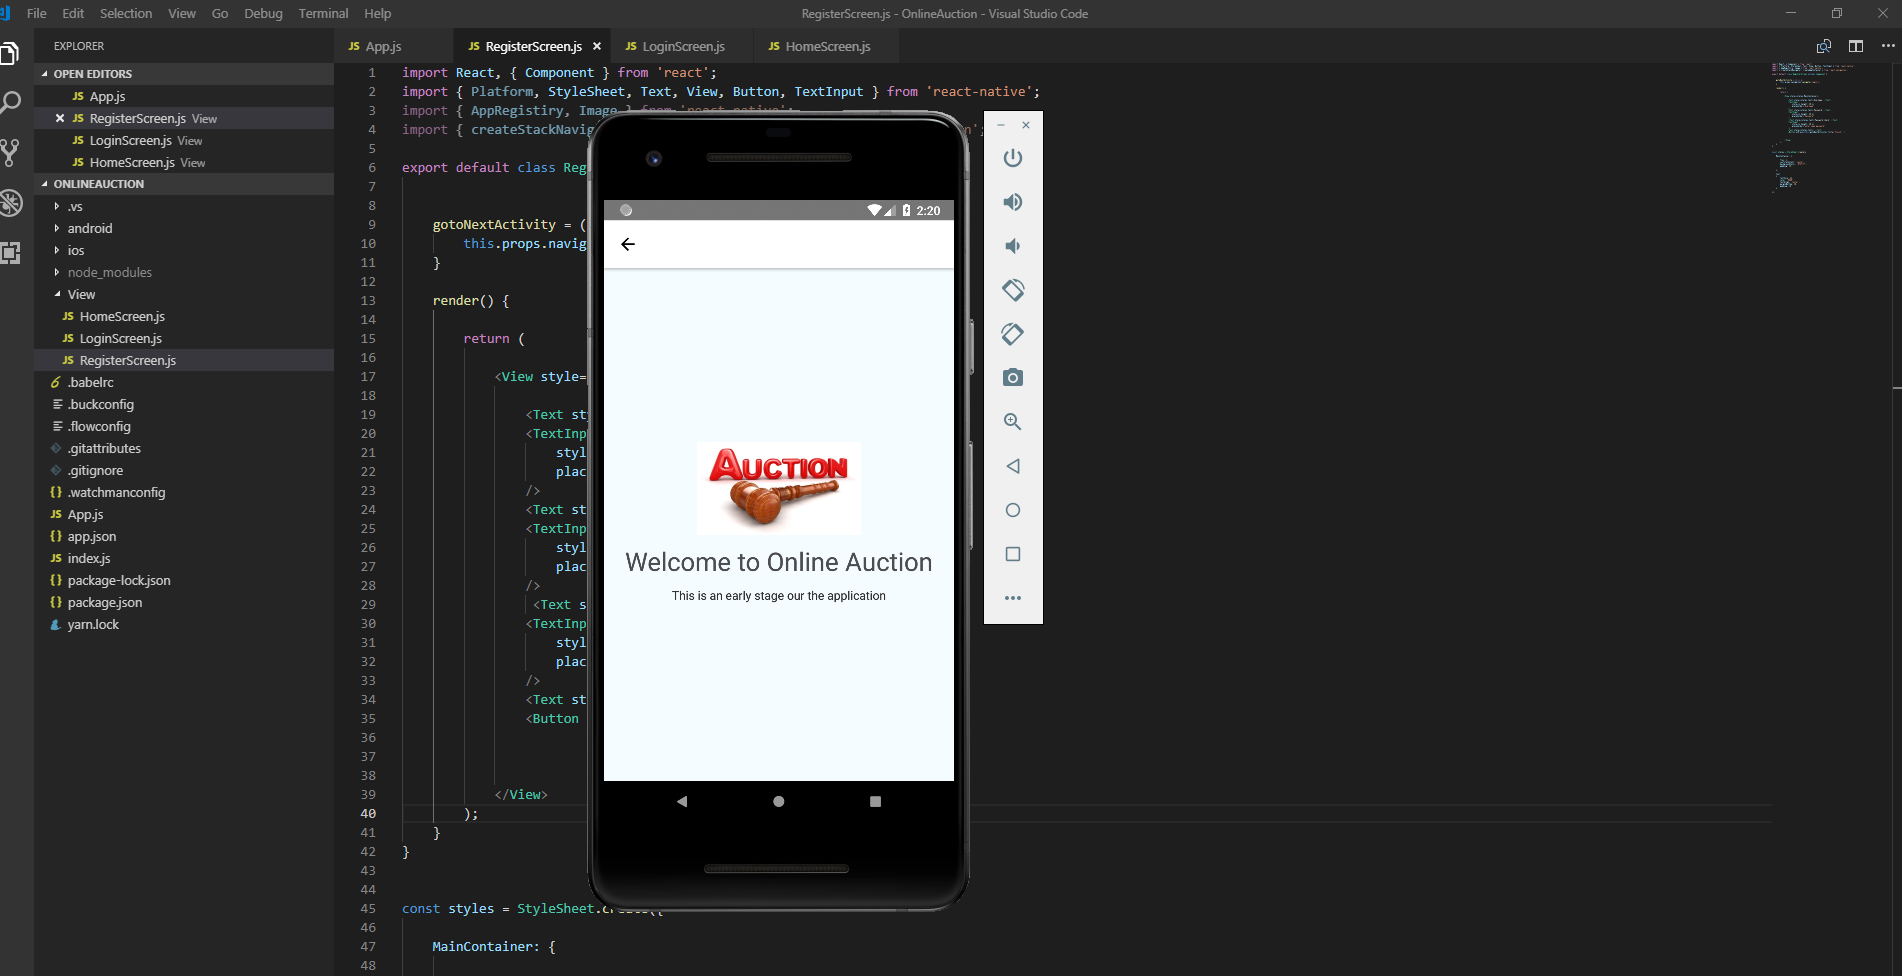
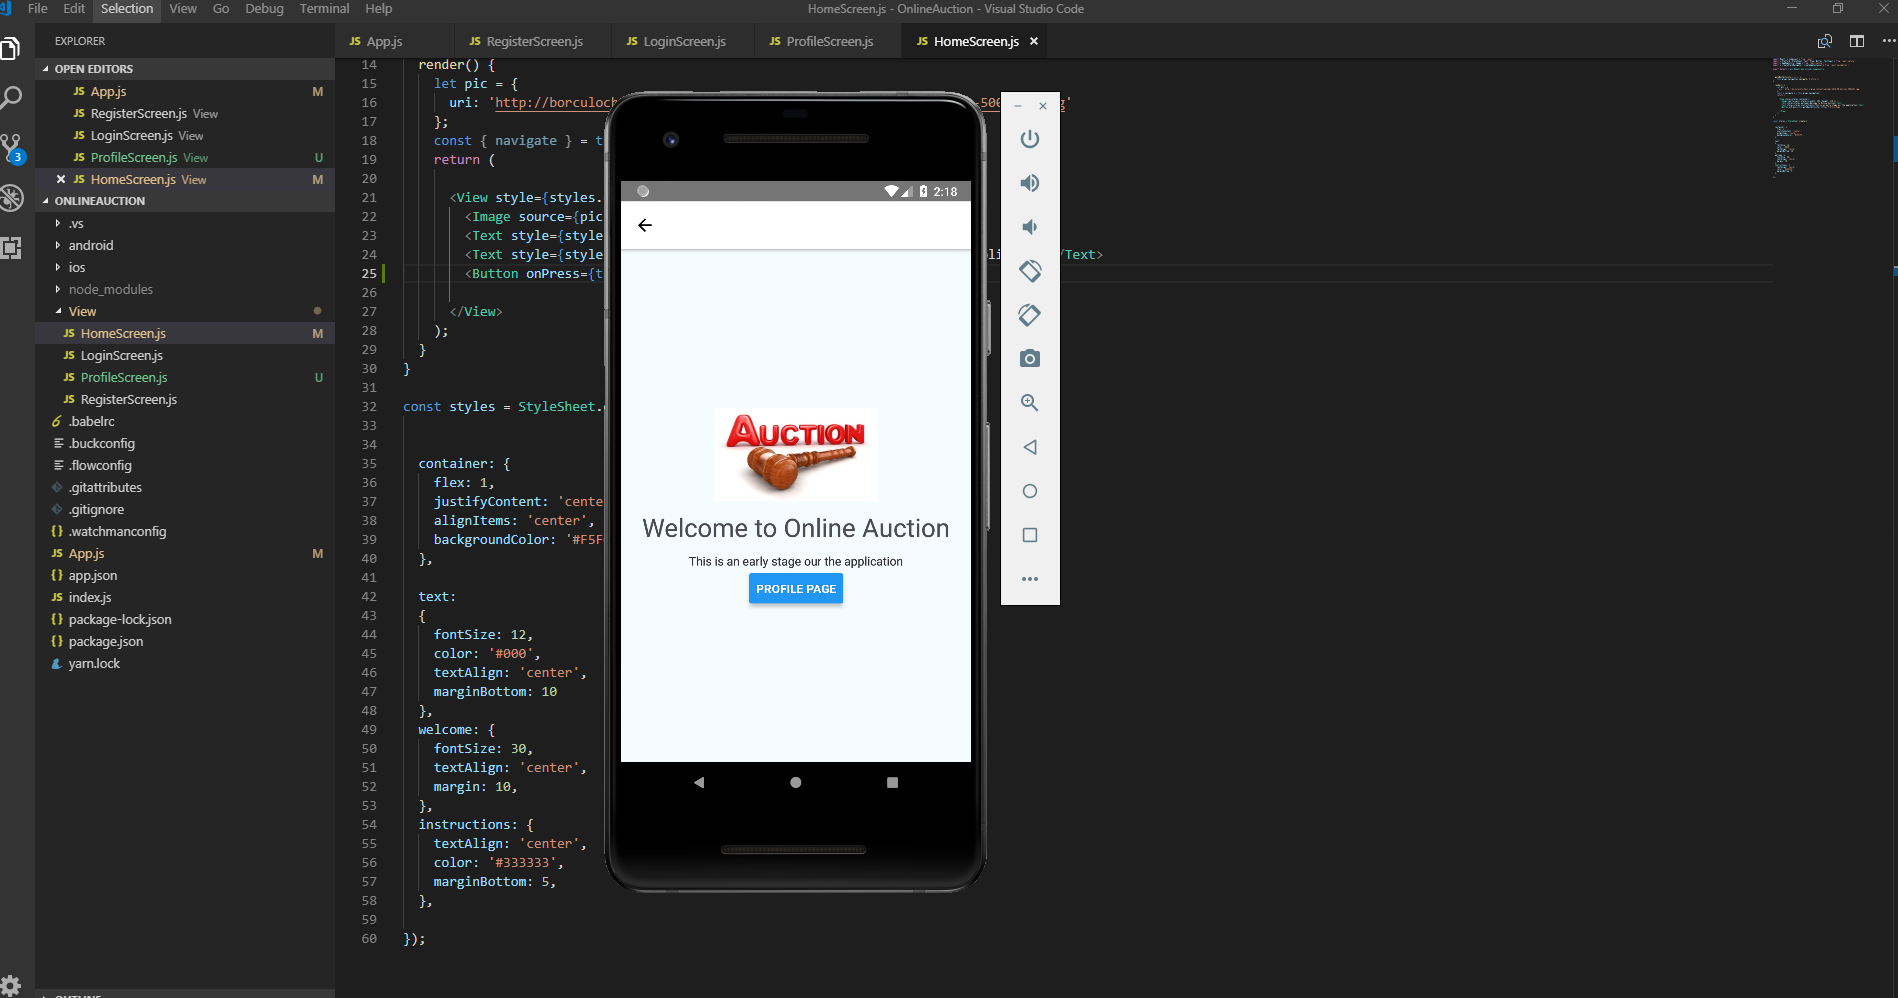
Page update 2
Profile page added

diff --git a/Application/OnlineAuction/View/ProfileScreen.js b/Application/OnlineAuction/View/ProfileScreen.js
@@ -1,0 +1,48 @@
+import React, { Component } from 'react';
+import { Platform, StyleSheet, Text, View, Button, TextInput } from 'react-native';
+import { AppRegistiry, Image } from 'react-native';
+import { createStackNavigator, createAppContainer } from 'react-navigation';
+
+export default class ProfileScreen extends Component {
+
+    static navigationOptions =
+        {
+            title: '                        Profile       ',
+      
+        };
+
+  
+    render() {
+
+        return (
+
+            <View style={styles.MainContainer}>
+
+                <Text style={styles.text}>This is going to be profile page </Text>
+               
+            </View>
+        );
+    }
+}
+
+
+const styles = StyleSheet.create({
+
+    MainContainer: {
+
+        flex: 1,
+        justifyContent: 'center',
+        backgroundColor: '#f5fcff',
+        padding: 11
+
+    },
+
+    text:
+    {
+        fontSize: 22,
+        color: '#000',
+        textAlign: 'center',
+        marginBottom: 10
+    },
+
+});

diff --git a/Application/OnlineAuction/View/HomeScreen.js b/Application/OnlineAuction/View/HomeScreen.js
@@ -7,7 +7,9 @@ export default class HomeScreen extends Component {
 
   
 
-
+  gotoNextActivity = () => {
+    this.props.navigation.navigate('Profile');
+}
 
   render() {
     let pic = {
@@ -20,6 +22,7 @@ export default class HomeScreen extends Component {
         <Image source={pic} style={{ width: 193, height: 110 }} />
         <Text style={styles.welcome}>Welcome to Online Auction</Text>
         <Text style={styles.instructions}>This is an early stage our the application</Text>
+        <Button onPress={this.gotoNextActivity} title='Profile Page' />
 
       </View>
     );

diff --git a/Application/OnlineAuction/App.js b/Application/OnlineAuction/App.js
@@ -15,13 +15,15 @@ import { createStackNavigator, createAppContainer } from 'react-navigation';
 import HomeScreen from './View/HomeScreen'
 import LoginScreen from './View/LoginScreen'
 import RegisterScreen from './View/RegisterScreen'
+import ProfileScreen from './View/ProfileScreen'
 
 
 const RootStack = createStackNavigator(
   {
     Home: HomeScreen,
     Login: LoginScreen,
-    Register : RegisterScreen
+    Register : RegisterScreen,
+    Profile : ProfileScreen
   },
   {
     initialRouteName: "Login"
